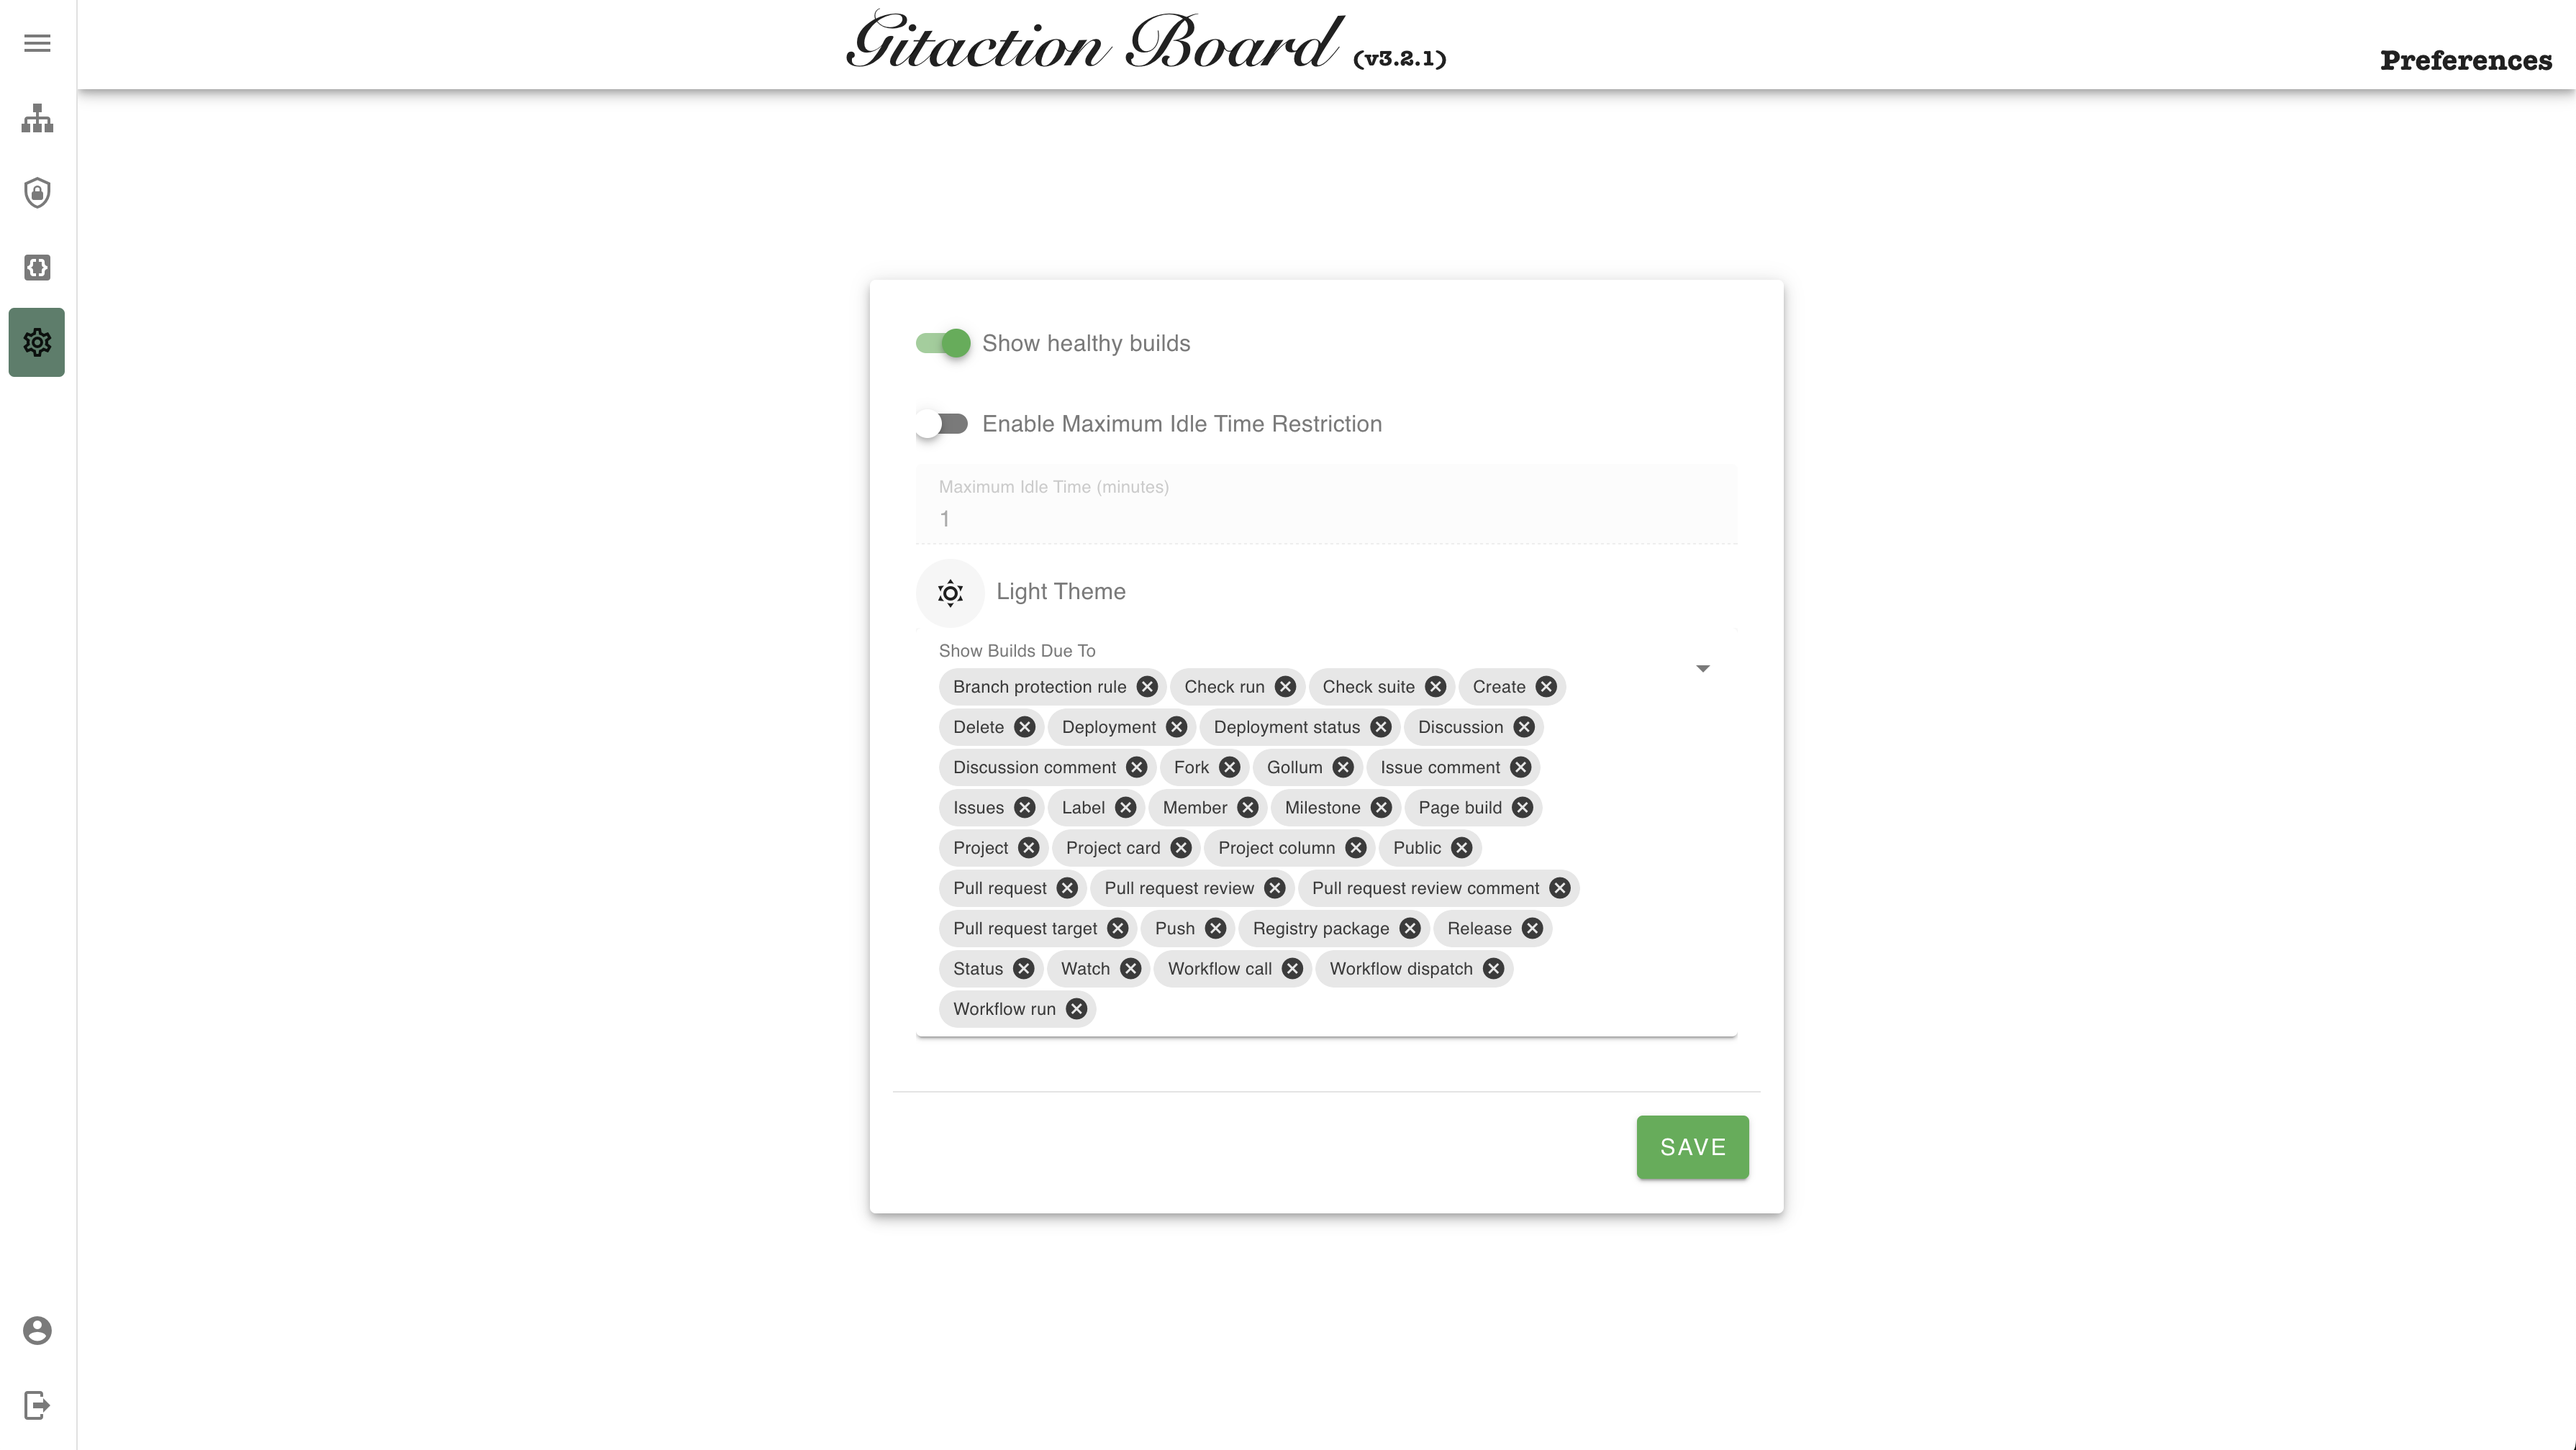
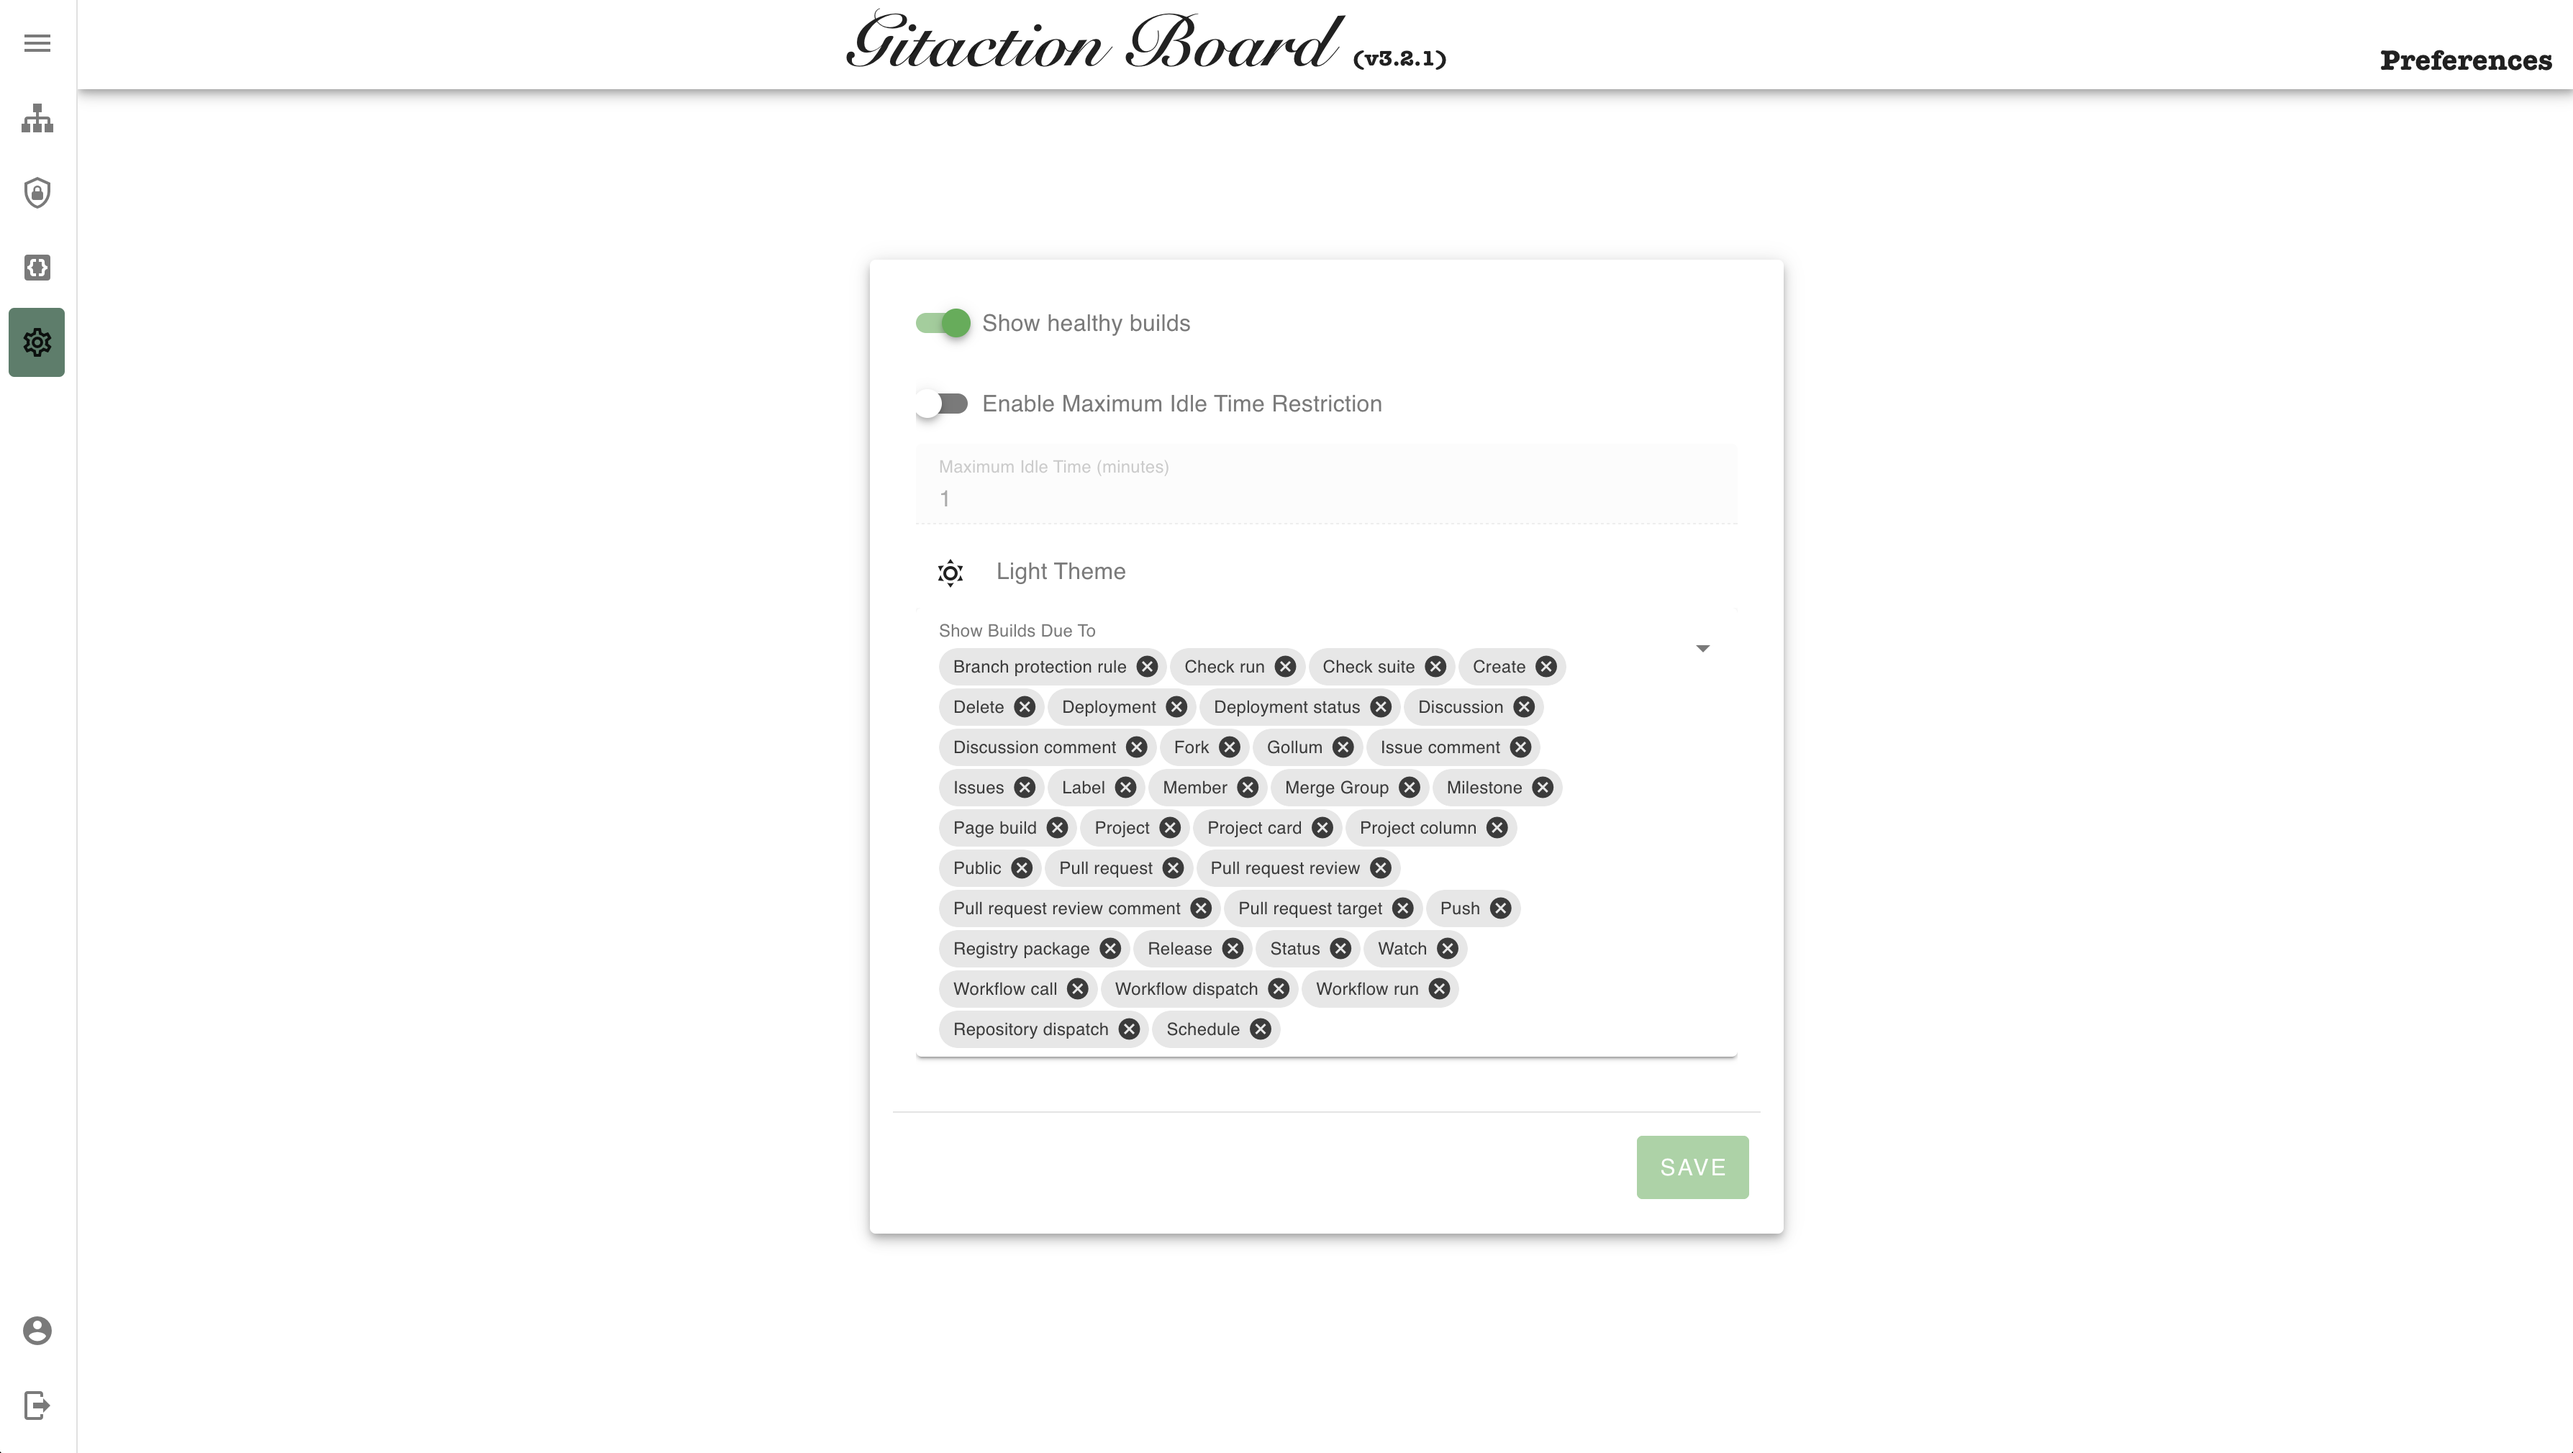
fix: Add missed github merge_group and schedule event

diff --git a/frontend/src/services/utils.js b/frontend/src/services/utils.js
@@ -17,6 +17,7 @@ const ALL_POSSIBLE_EVENTS = {
   issues: 'Issues',
   label: 'Label',
   member: 'Member',
+  merge_group: 'Merge Group',
   milestone: 'Milestone',
   page_build: 'Page build',
   project: 'Project',
@@ -35,7 +36,8 @@ const ALL_POSSIBLE_EVENTS = {
   workflow_call: 'Workflow call',
   workflow_dispatch: 'Workflow dispatch',
   workflow_run: 'Workflow run',
-  repository_dispatch: 'Repository dispatch'
+  repository_dispatch: 'Repository dispatch',
+  schedule: 'Schedule'
 };
 
 const SECOND = 1000;

diff --git a/frontend/src/services/preferences.js b/frontend/src/services/preferences.js
@@ -68,7 +68,7 @@ class Preferences {
   }
 
   set showBuildsDueToTriggeredEvents(events) {
-    this.__set__('show-builds-due-to-triggered-events', JSON.stringify(events));
+    this.__set__('show-builds-due-to-triggered-events', JSON.stringify(events.map(({ value }) => value)));
   }
 }
 
